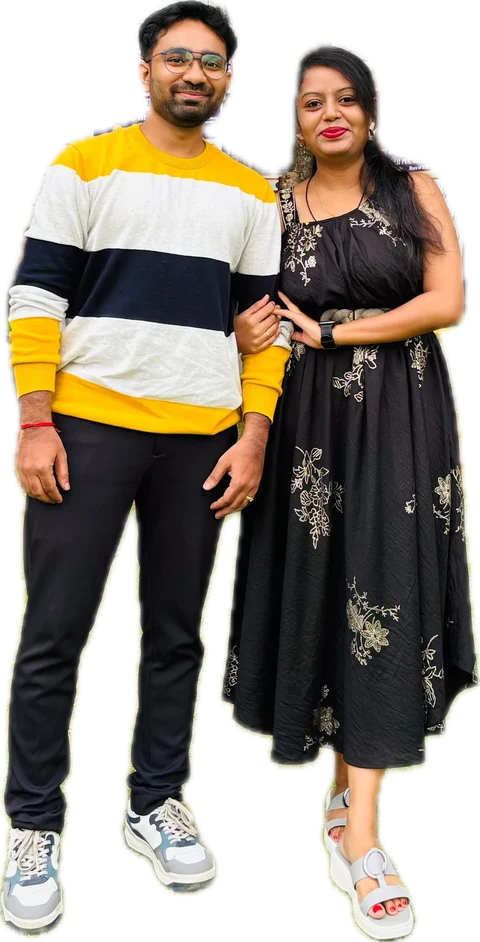
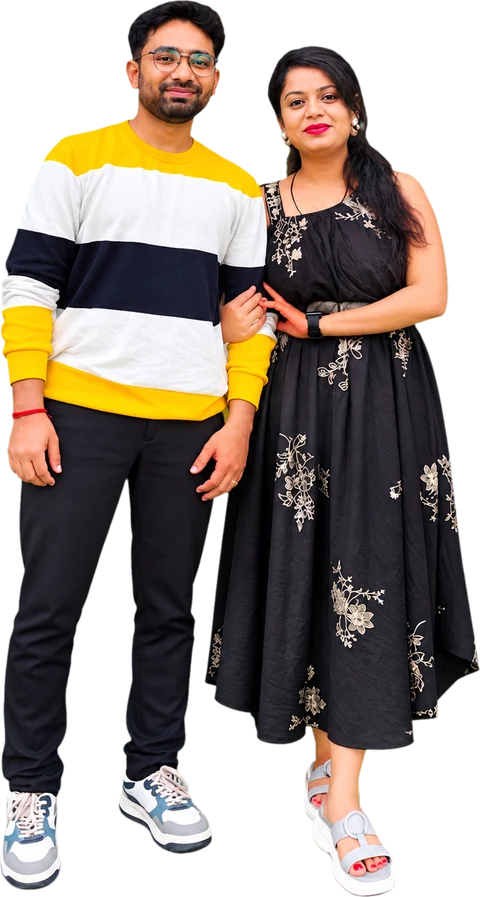
Update hero cutout with cleaner background removal
Replace the couple cutout using a chroma-keyed source with edge de-spill, and update the image dimensions.

diff --git a/index.html b/index.html
@@ -84,7 +84,7 @@
         <div class="hero__arch" aria-hidden="true"></div>
         <div class="hero__arch hero__arch--line" aria-hidden="true"></div>
         <div class="hero__floor" aria-hidden="true"></div>
-        <img class="hero__img" src="images/together-cutout.webp" srcset="images/together-cutout-480.webp 480w, images/together-cutout.webp 764w" sizes="(max-width: 860px) 45vw, 300px" width="764" height="1500" fetchpriority="high" decoding="async"
+        <img class="hero__img" src="images/together-cutout.webp" srcset="images/together-cutout-480.webp 480w, images/together-cutout.webp 764w" sizes="(max-width: 860px) 45vw, 300px" width="763" height="1426" fetchpriority="high" decoding="async"
              alt="The two of us standing close, arm in arm: he in a yellow, white and navy striped sweater, she in a black floral dress.">
       </div>
     </figure>
